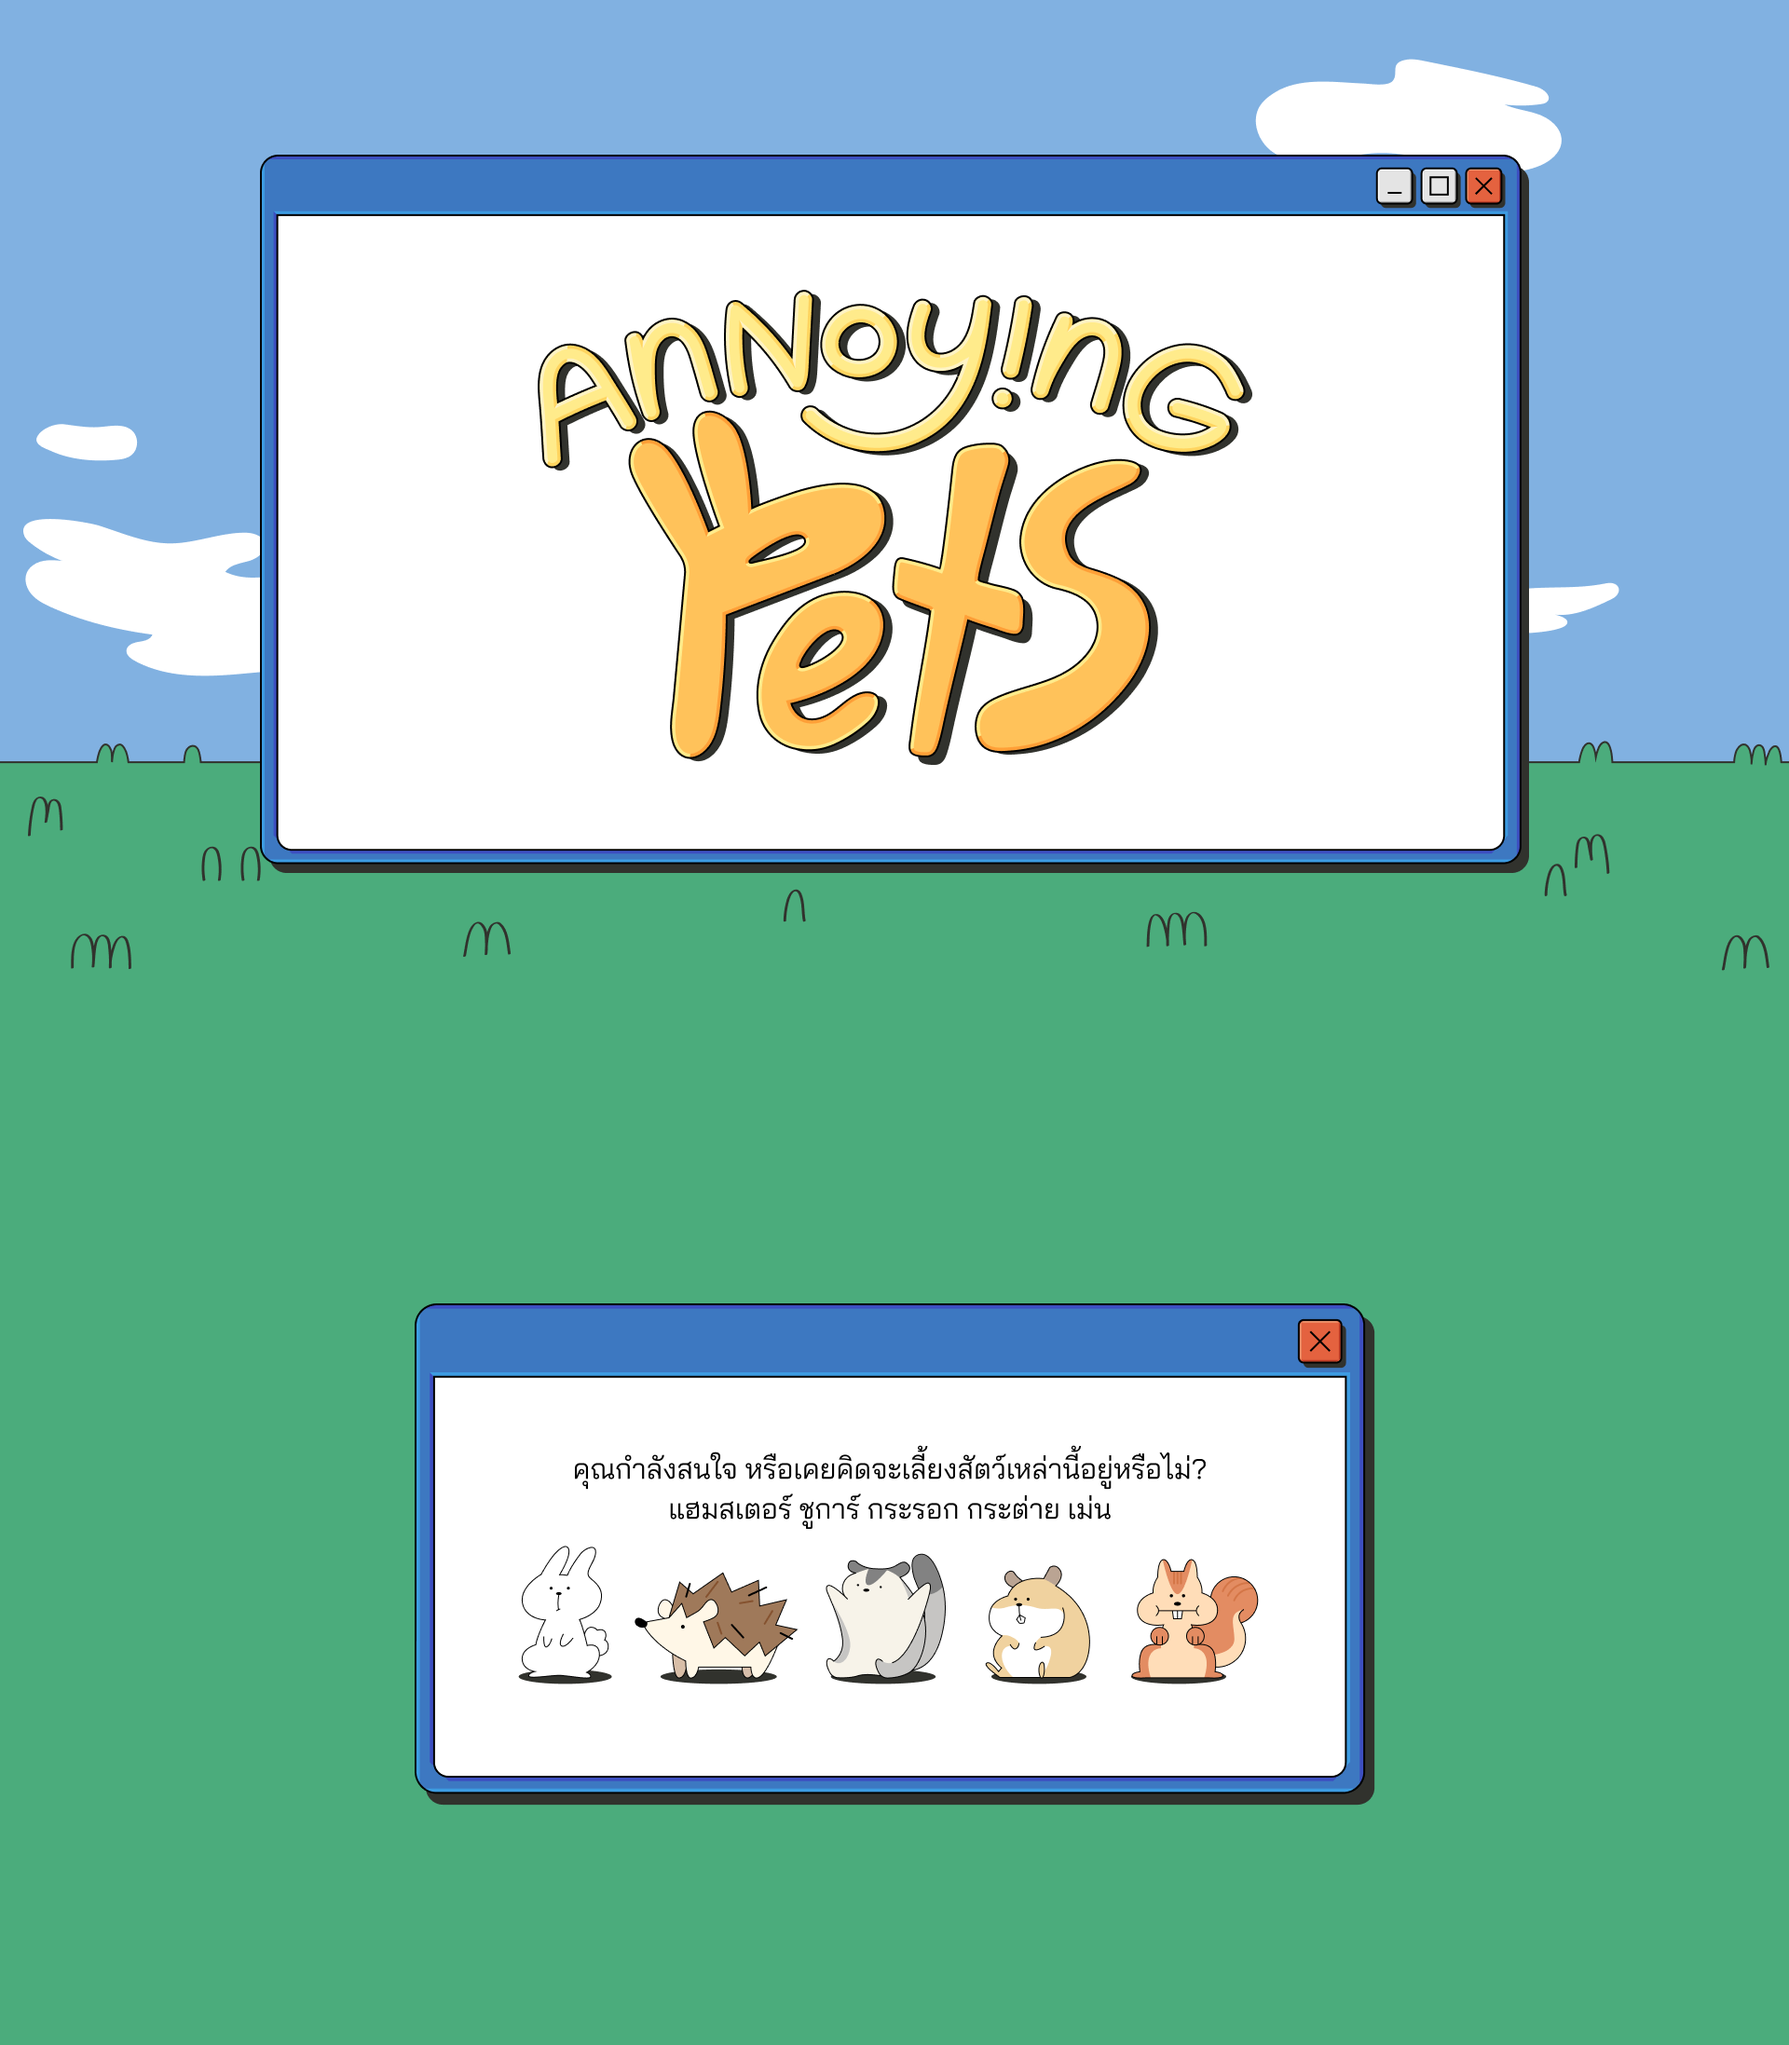
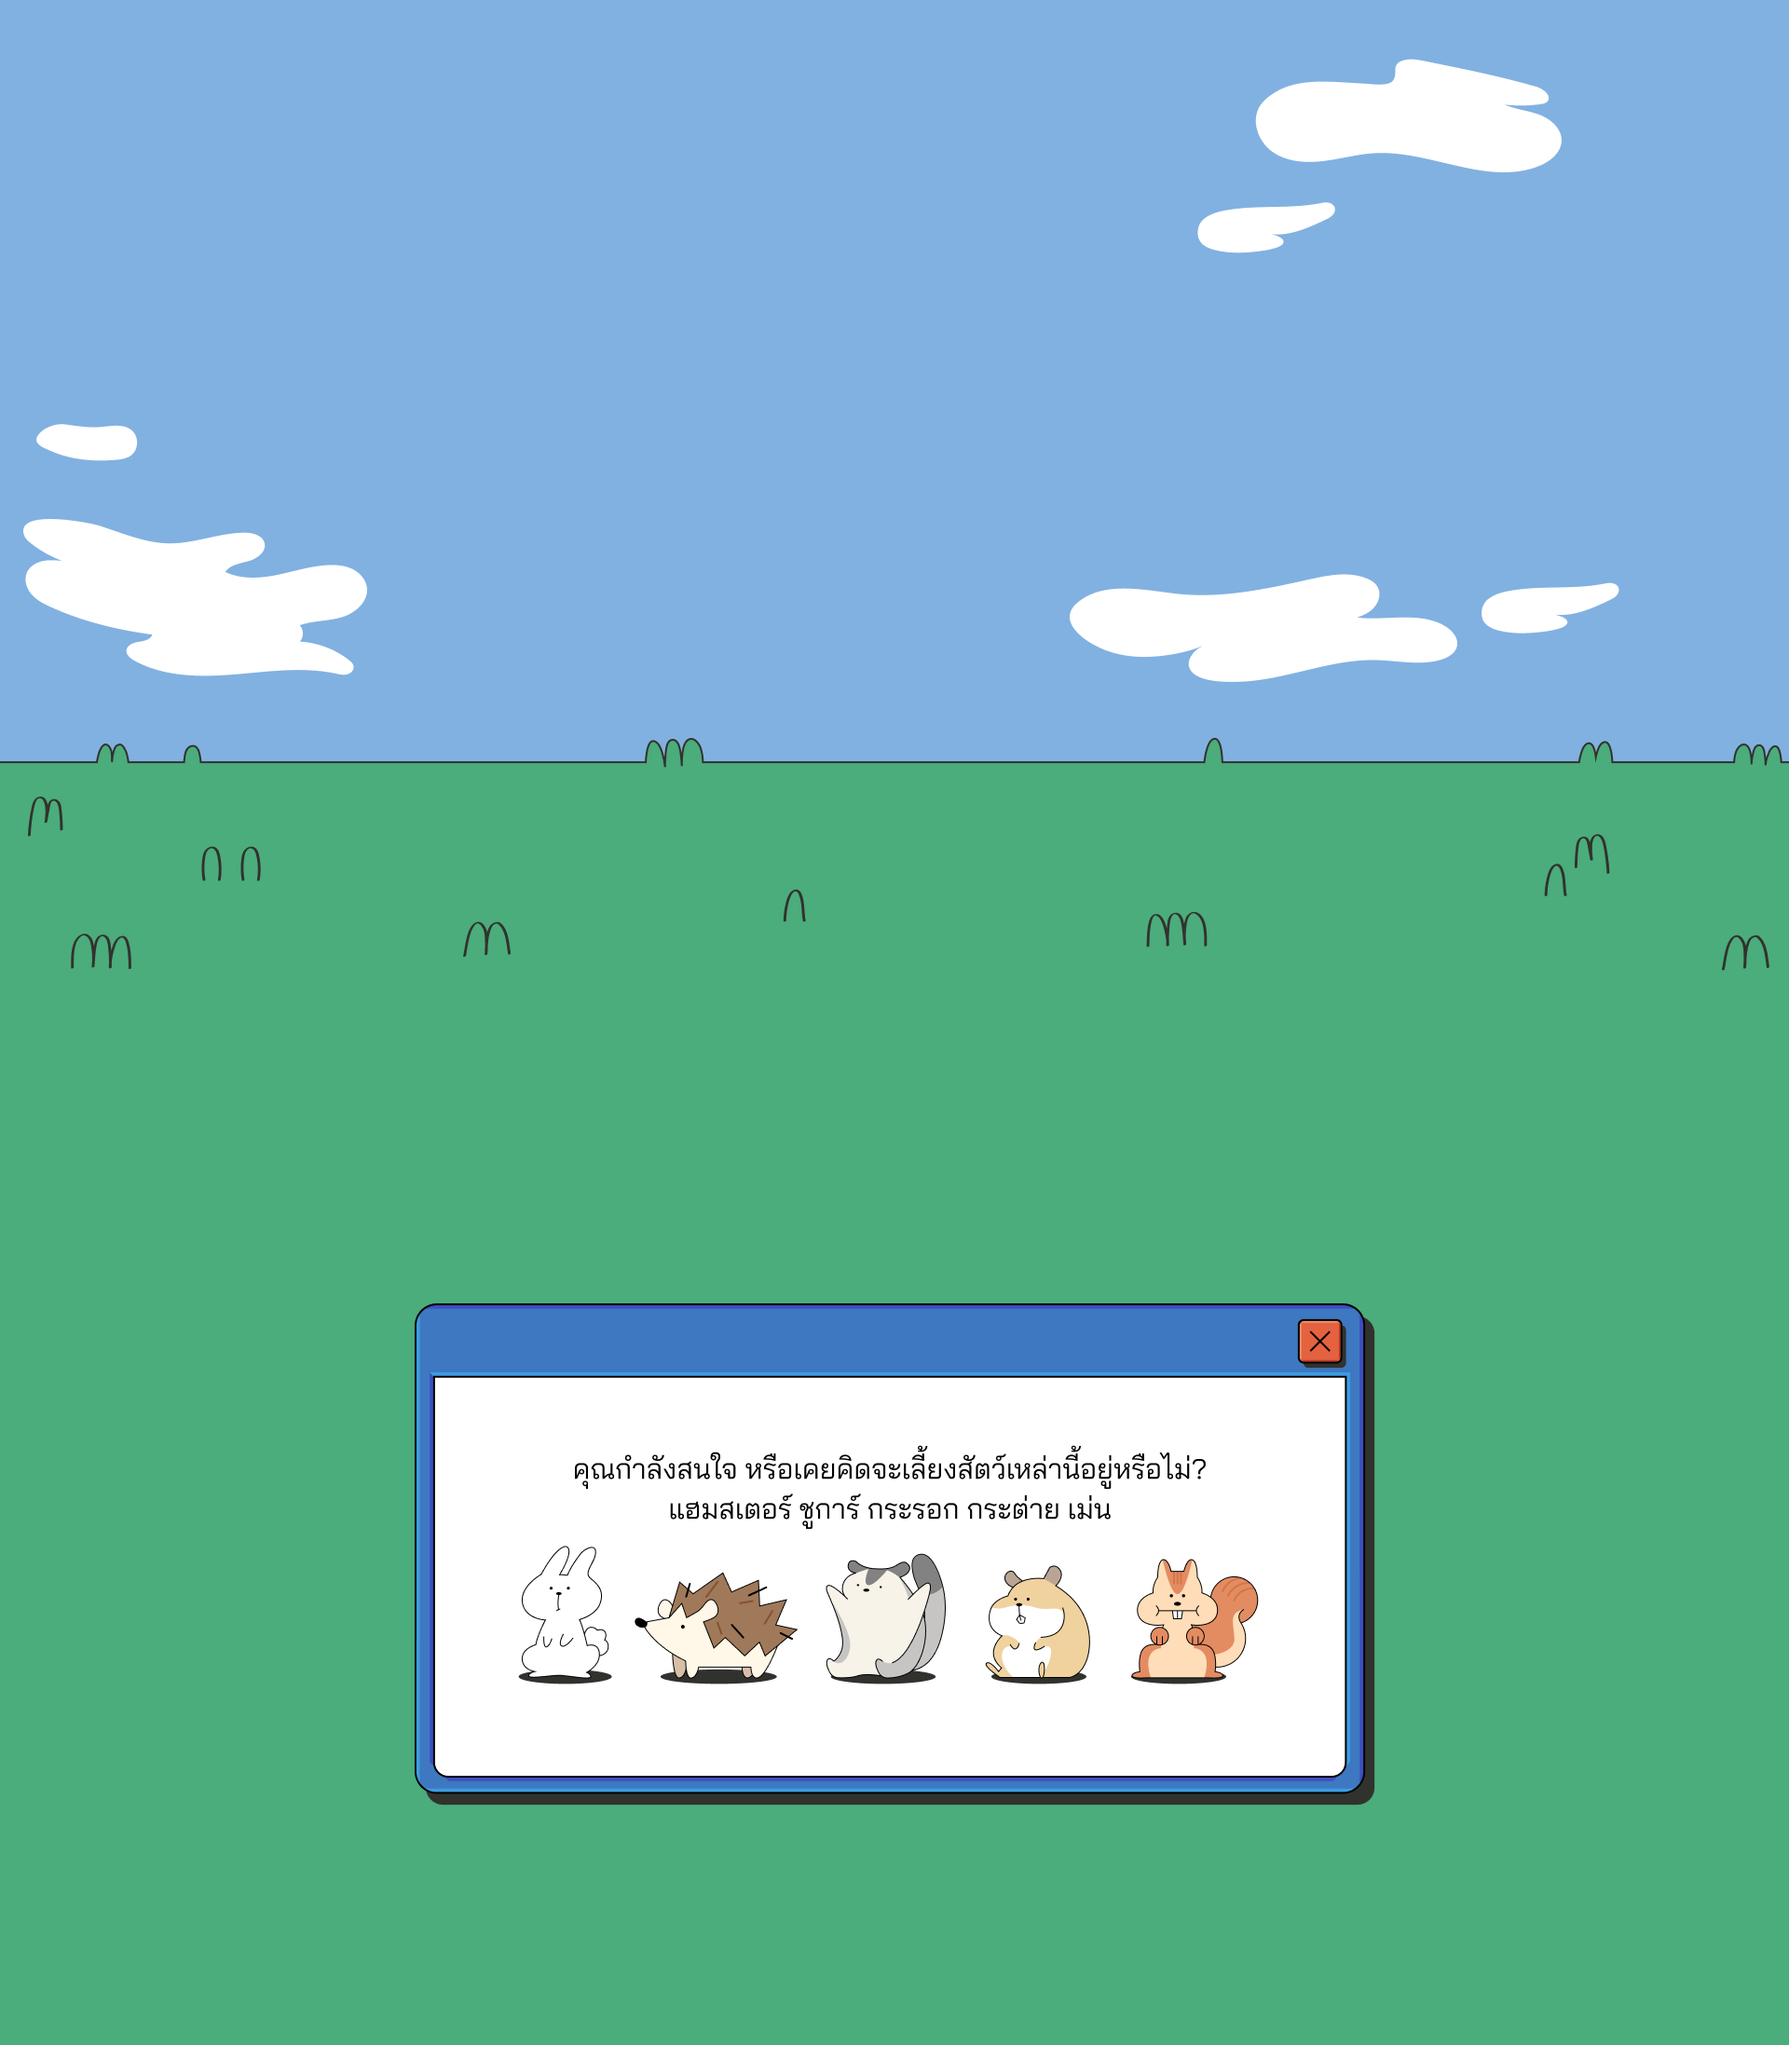
add lobby room hovering

Changed region(s): [[0.125, 0.062, 0.875, 0.4337]]

diff --git a/src/pages/lobbyPage/LobbyPage.tsx b/src/pages/lobbyPage/LobbyPage.tsx
@@ -1,21 +1,107 @@
-import React from "react";
+import { useState } from "react";
 import { motion } from "framer-motion";
 import "./LobbyPage.css";
 
 // Import Assets
 import lobbyBg from "../../assets/lobbyPage/lobby.png";
+import rabbitDef from "../../assets/lobbyPage/rabbit-room-default.png";
+import rabbitAct from "../../assets/lobbyPage/rabbit-room-sick.png";
+import hamsterDef from "../../assets/lobbyPage/hamster-room-default.png";
+import hamsterAct from "../../assets/lobbyPage/hamster-room-playing.png";
+import squirrelDef from "../../assets/lobbyPage/squirrel-room-default.png";
+import squirrelAct from "../../assets/lobbyPage/squirrel-room-exercise.png";
+import hedgehogDef from "../../assets/lobbyPage/hedgehog-room-default.png";
+import hedgehogAct from "../../assets/lobbyPage/hedgehog-room-dirty.png";
+import sugarDef from "../../assets/lobbyPage/sugarGlider-room-default.png";
+import sugarAct from "../../assets/lobbyPage/sugarGlider-room-food.png";
+import secretDef from "../../assets/lobbyPage/secret-room-default.png";
+import secretAct from "../../assets/lobbyPage/secret-room-code.png";
+import exploreTopic from "../../assets/lobbyPage/explore-topic.png";
 
-const LobbyPage: React.FC = () => {
+const ROOMS_CONFIG = [
+  {
+    id: "rabbit",
+    def: rabbitDef,
+    act: rabbitAct,
+    top: "41.2%",
+    left: "24.3%",
+    size: "26.2vw",
+  },
+  {
+    id: "hamster",
+    def: hamsterDef,
+    act: hamsterAct,
+    top: "41.6%",
+    left: "50%",
+    size: "25.5vw",
+  },
+  {
+    id: "squirrel",
+    def: squirrelDef,
+    act: squirrelAct,
+    top: "41.5%",
+    left: "75.9%",
+    size: "25.8vw",
+  },
+  {
+    id: "hedgehog",
+    def: hedgehogDef,
+    act: hedgehogAct,
+    top: "71%",
+    left: "26.5%",
+    size: "30.6vw",
+  },
+  {
+    id: "sugar",
+    def: sugarDef,
+    act: sugarAct,
+    top: "71%",
+    left: "57.3%",
+    size: "30vw",
+  },
+  {
+    id: "secret",
+    def: secretDef,
+    act: secretAct,
+    top: "71.1%",
+    left: "80.7%",
+    size: "16vw",
+  },
+];
+
+const LobbyPage = () => {
+  const [hoveredRoom, setHoveredRoom] = useState<string | null>(null);
+
   return (
-    <div className="lobby-page-container">
-      <motion.img
-        src={lobbyBg}
-        alt="Lobby Background"
-        className="lobby-bg"
-        initial={{ scale: 1.1, opacity: 0 }}
-        animate={{ scale: 1, opacity: 1 }}
-        transition={{ duration: 1.2, ease: "easeOut" }}
-      />
+    <div className={`lobby-page-container ${hoveredRoom ? "is-hovering" : ""}`}>
+      <div className="lobby-wrapper">
+        <img src={lobbyBg} className="full-bg" alt="Lobby Background" />
+
+        <img src={exploreTopic} className="lobby-header" alt="Header Title" />
+
+        {ROOMS_CONFIG.map((room) => (
+          <div
+            key={room.id}
+            className="room-item"
+            style={{
+              top: room.top,
+              left: room.left,
+              width: room.size,
+            }}
+            onMouseEnter={() => setHoveredRoom(room.id)}
+            onMouseLeave={() => setHoveredRoom(null)}
+          >
+            <motion.img
+              src={hoveredRoom === room.id ? room.act : room.def}
+              alt={room.id}
+              className="room-img"
+              initial={false}
+              animate={{ opacity: 1 }}
+              transition={{ duration: 0.2 }}
+            />
+          </div>
+        ))}
+      </div>
     </div>
   );
 };

diff --git a/src/pages/lobbyPage/LobbyPage.css b/src/pages/lobbyPage/LobbyPage.css
@@ -2,17 +2,64 @@
   width: 100vw;
   height: 100vh;
   position: relative;
-  background-color: #33a681;
+  background-color: #4bac7c;
   overflow: hidden;
+  transition: background-color 0.3s ease;
 }
 
-.lobby-bg {
+.lobby-page-container.is-hovering {
+  background-color: #2a6748;
+}
+
+.lobby-wrapper {
+  position: relative;
   width: 100%;
-  height: 100%;
-  object-fit: cover;
+  aspect-ratio: 16 / 9;
+  margin: 0 auto;
+}
+
+.full-bg {
+  width: 100%;
+  height: auto;
   display: block;
+  transition: filter 0.3s ease;
+}
+
+.is-hovering .full-bg {
+  filter: brightness(0.6);
+}
+
+.lobby-header {
   position: absolute;
-  top: 0;
-  left: 0;
-  z-index: 1;
+  top: 11.8%;
+  left: 50%;
+  transform: translate(-50%, -50%);
+  width: 35.4%;
+  z-index: 50;
+  pointer-events: none;
+  filter: brightness(1) !important;
+}
+
+.room-item {
+  position: absolute;
+  transform: translate(-50%, -50%);
+  cursor: pointer;
+  z-index: 10;
+  transition: filter 0.3s ease;
+}
+
+.room-img {
+  width: 100% !important;
+  height: auto !important;
+  display: block;
+}
+
+.is-hovering .room-item:not(:hover) {
+  filter: brightness(0.6);
+  z-index: 5;
+}
+
+.room-item:hover {
+  filter: brightness(1) !important;
+  z-index: 20;
 }

diff --git a/src/pages/introPage/IntroPage.tsx b/src/pages/introPage/IntroPage.tsx
@@ -14,8 +14,8 @@ import rabbitDef from "../../assets/introPage/rabbit-default.png";
 import rabbitAct from "../../assets/introPage/rabbit-sick.png";
 import squirrelDef from "../../assets/introPage/squirrel-default.png";
 import squirrelAct from "../../assets/introPage/squirrel-exercise.png";
-import sugarDef from "../../assets/introPage/sugarGrider-default.png";
-import sugarAct from "../../assets/introPage/sugerGlider-food.png";
+import sugarDef from "../../assets/introPage/sugarGlider-default.png";
+import sugarAct from "../../assets/introPage/sugarGlider-food.png";
 import hedgeDef from "../../assets/introPage/hedgehog-default.png";
 import hedgeAct from "../../assets/introPage/headgehog-dirty.png";
 
